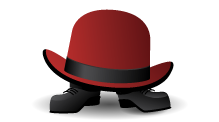
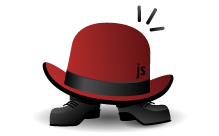
tunning srbuj

diff --git a/stylesheets/styles.css b/stylesheets/styles.css
@@ -216,7 +216,10 @@ header {
   width:170px;
   float:left;
   position:fixed;
-	border: 1px solid #000;
+	border: 0px solid #000;
+	border-bottom: 0px solid #000;
+	border-right: 0px solid #B20000;
+	border-top: 20px solid #B20000;
 	-webkit-border-top-right-radius: 4px;
 	-webkit-border-bottom-right-radius: 4px;
 	-moz-border-radius-topright: 4px;
@@ -224,18 +227,18 @@ header {
 	border-top-right-radius: 4px;
 	border-bottom-right-radius: 4px;
 	padding: 34px 25px 22px 50px;
-	margin: 135px 25px 0 0;
+	margin: 110px 25px 0 0;
 	-webkit-font-smoothing: antialiased;
 }
 header:before{
   display: block;
   position: absolute;
   width: 219px;
-  height:122px;
+  height:219px;
   background: transparent url(../images/srbuj.png) left top no-repeat;
   content: "";
   left: 8px;
-  top: -134px;
+  top: -129px;
 }
 
 p.header {
